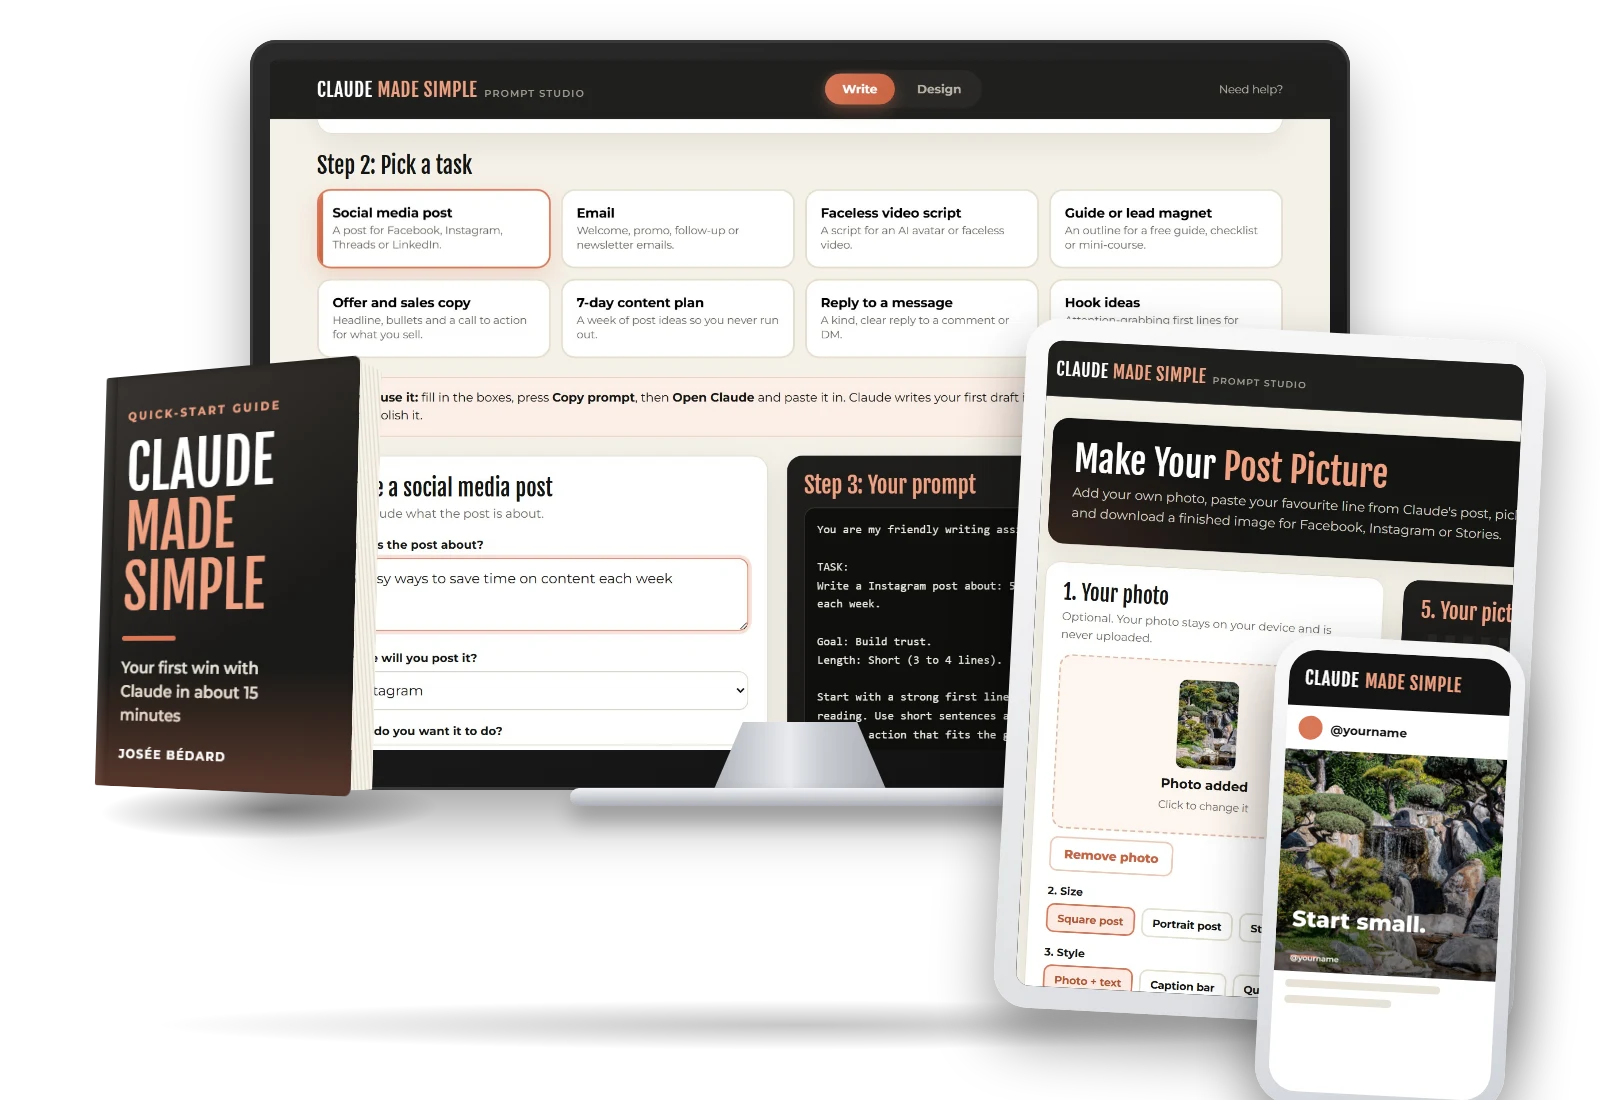
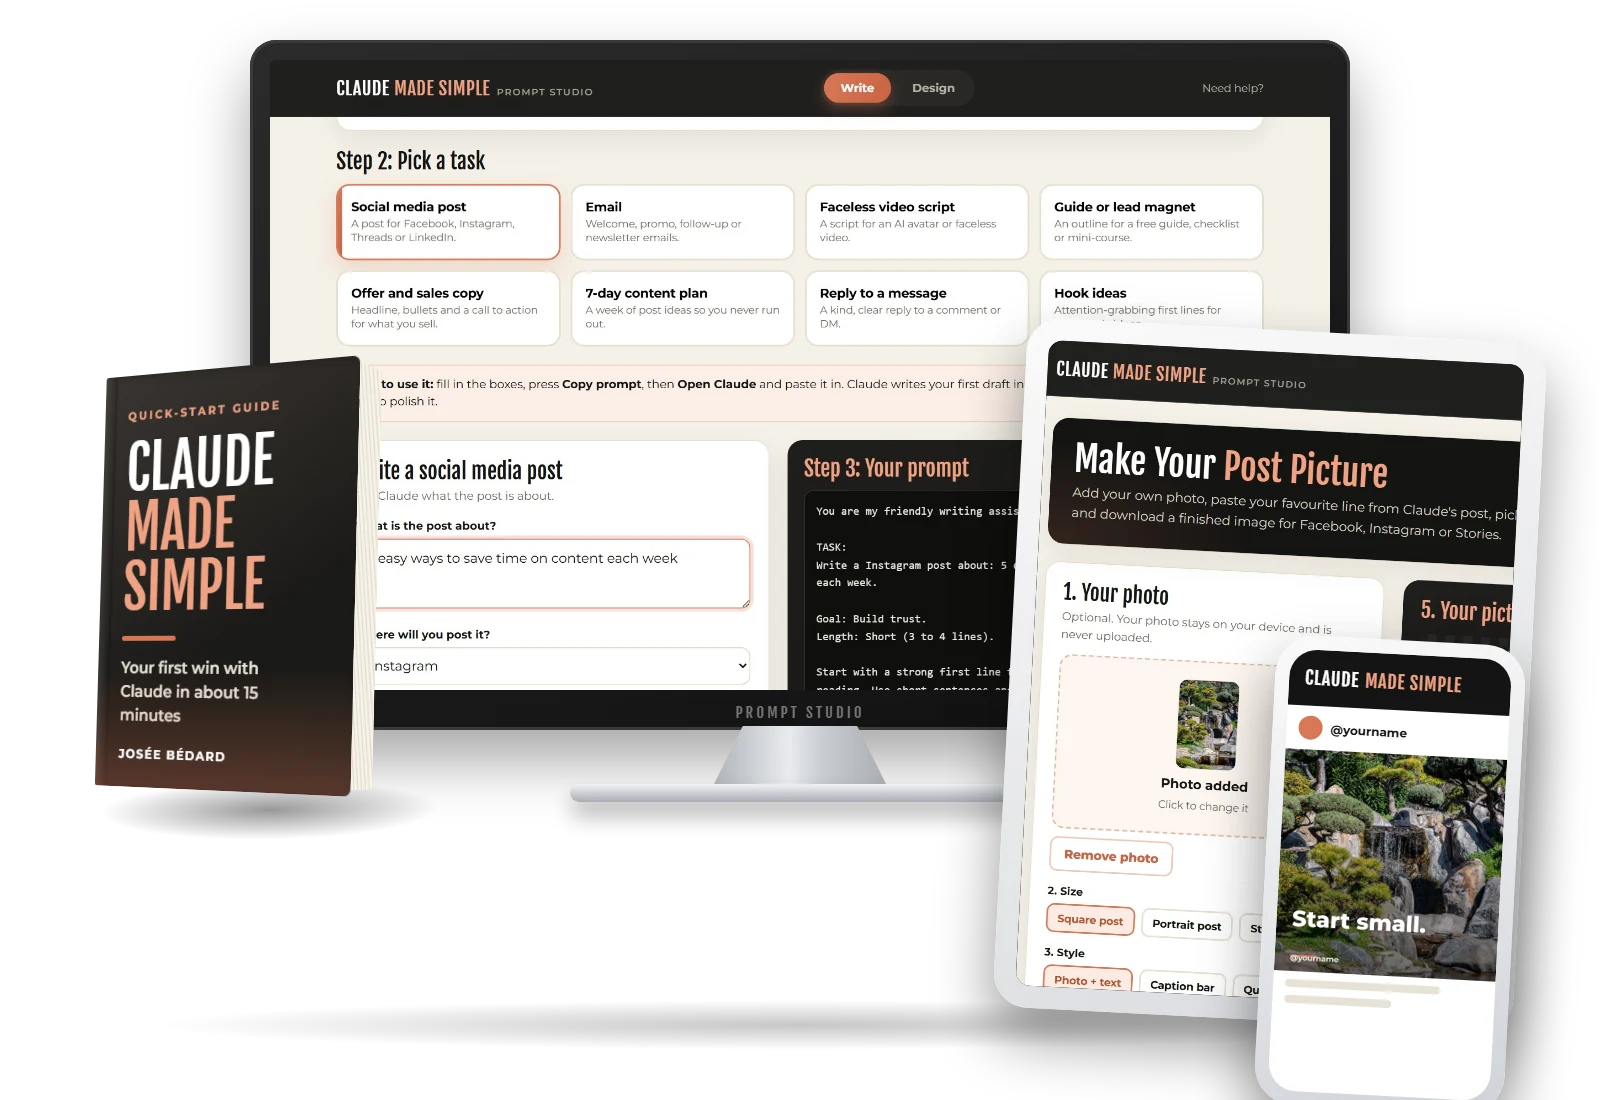
Mockup: fix monitor bezel so the stand attaches

Changed region(s): [[0.1562, 0.0618, 0.8125, 0.7727]]

diff --git a/wp/promptstudio/index.html b/wp/promptstudio/index.html
@@ -258,7 +258,7 @@ footer a{color:var(--gold)}
     <div class="pcard">
       <div class="hurry">One-time payment. Instant access.</div>
       <div class="redbar">Just $9 &mdash; no subscription</div>
-      <img src="/wp/img/mockup.webp?v=2" alt="Claude Made Simple: Prompt Studio on desktop, tablet and phone" width="1600" height="1100" style="width:100%;height:auto;display:block;margin:4px 0 8px">
+      <img src="/wp/img/mockup.webp?v=3" alt="Claude Made Simple: Prompt Studio on desktop, tablet and phone" width="1600" height="1100" style="width:100%;height:auto;display:block;margin:4px 0 8px">
       <div class="pprice">Just $9</div>
       <div style="font-size:16px">Delivered instantly. Start using it right now!</div>
       <!-- BUY BUTTON (hero): paste your Warrior+ buy button code here -->
@@ -525,7 +525,7 @@ footer a{color:var(--gold)}
       <h2>Why Is The Price <span class="gold">So Low?</span></h2>
       <p class="lead">I'd rather make it easy to get started and let the tool prove its value. It's a small, simple product, and the price shows that.</p>
       <div class="offer reveal">
-        <img src="/wp/img/mockup.webp?v=2" alt="What you get: Claude Made Simple Prompt Studio" width="1600" height="1100" style="width:100%;max-width:560px;height:auto;display:block;margin:0 auto 14px" loading="lazy"><span class="eyebrow">Your price</span>
+        <img src="/wp/img/mockup.webp?v=3" alt="What you get: Claude Made Simple Prompt Studio" width="1600" height="1100" style="width:100%;max-width:560px;height:auto;display:block;margin:0 auto 14px" loading="lazy"><span class="eyebrow">Your price</span>
         <div class="price gold">$9</div>
         <div class="micro">One-time payment. No subscription.</div>
         <ul class="ticks tl">
